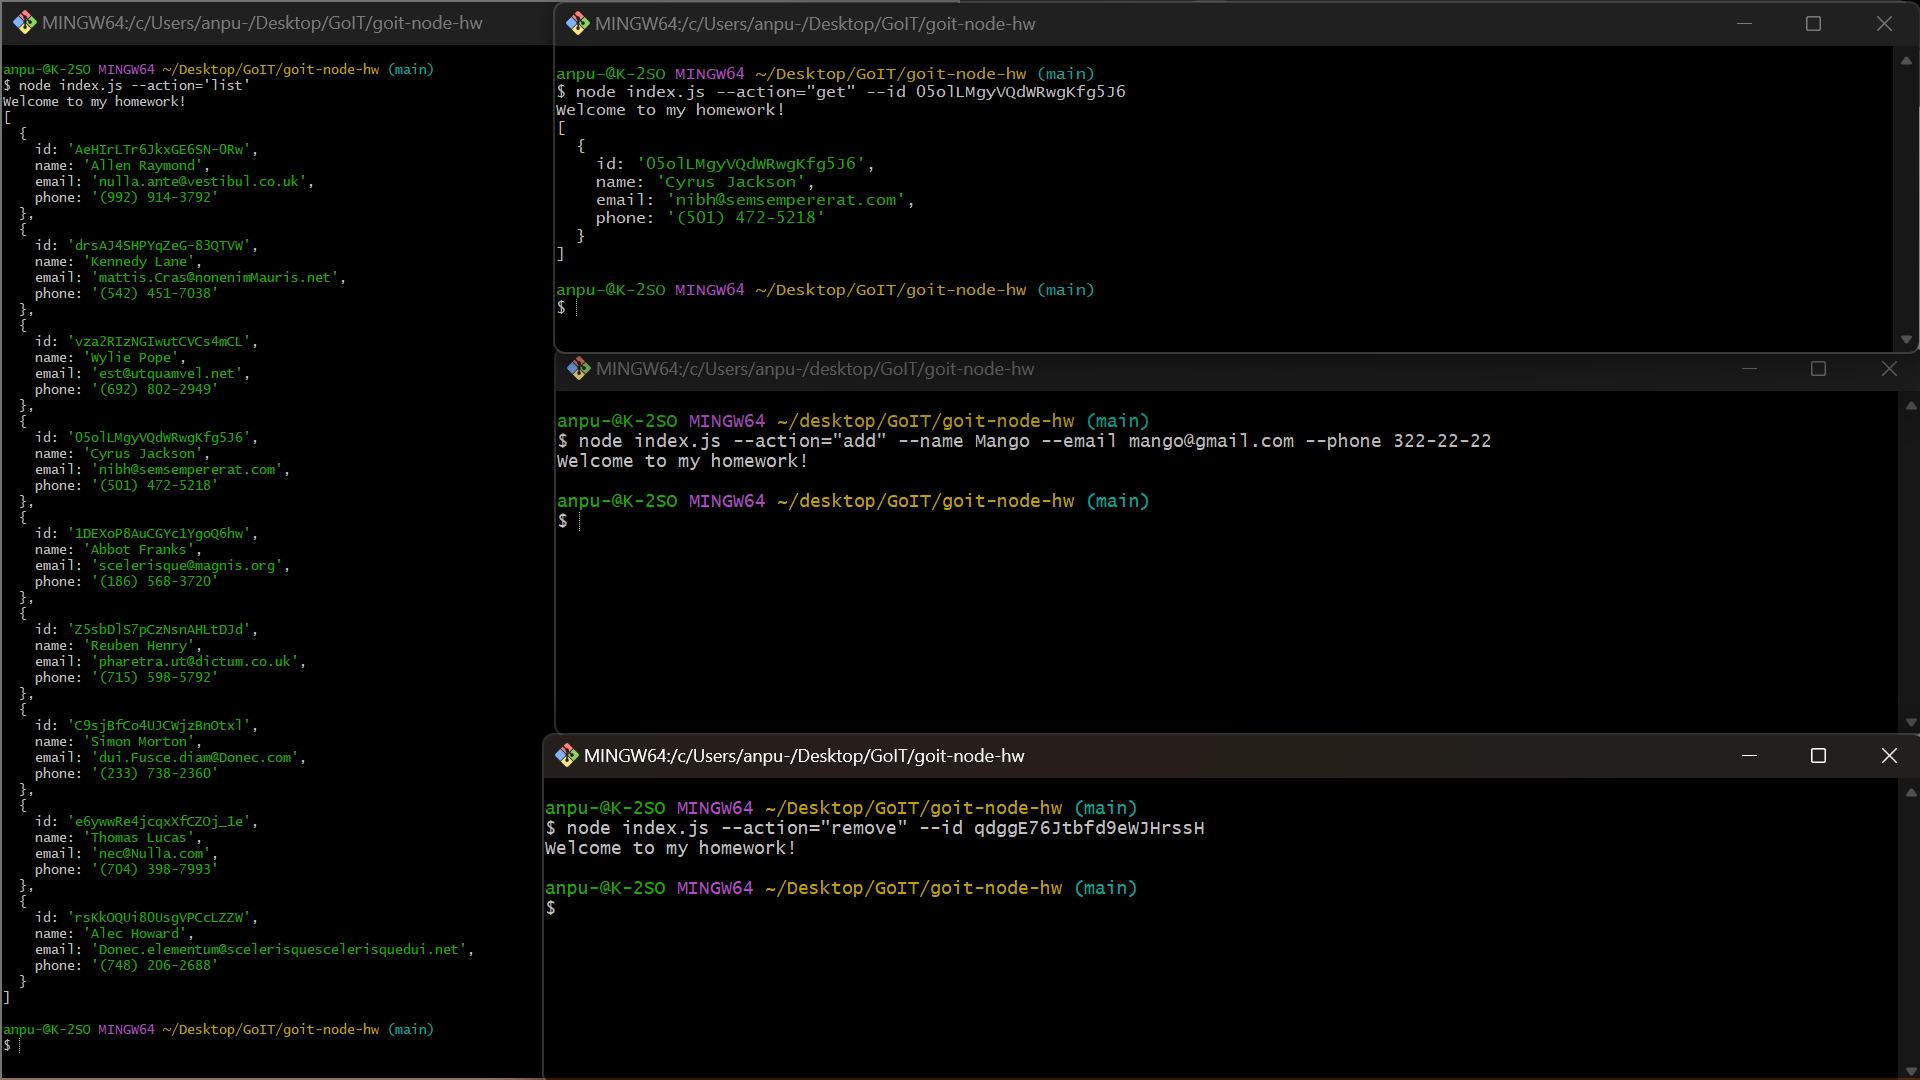
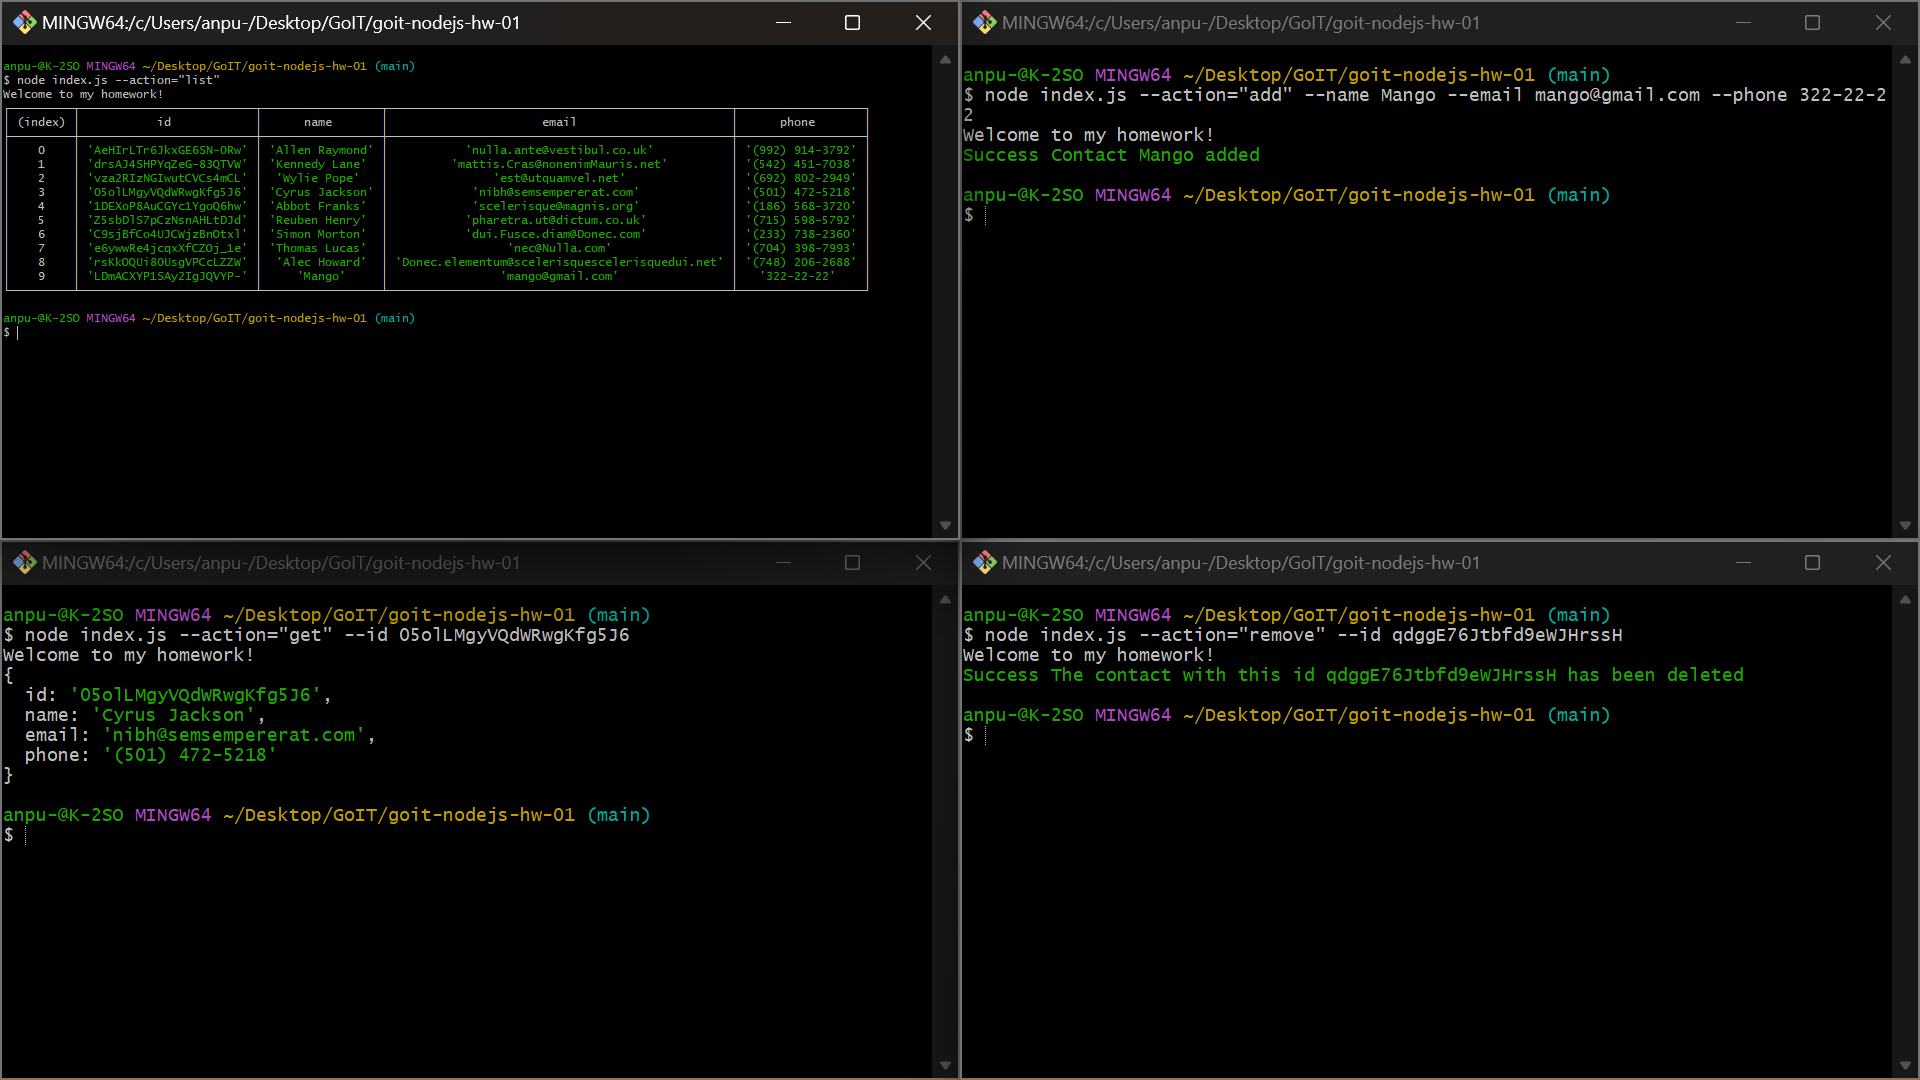
add async and fix screenshot

diff --git a/contacts-async.js b/contacts-async.js
@@ -1,0 +1,61 @@
+const fs = require('fs').promises;
+const path = require('path');
+const {nanoid} = require('nanoid');
+const chalk = require("chalk");
+
+const contactsPath = path.resolve('./db/contacts.json');
+
+async function listContacts() {
+  try {
+    return console.table(JSON.parse(await fs.readFile(contactsPath)));
+  } catch (err) {
+    console.log(chalk.red(`Error! ${err.message}`));
+  }
+}
+
+async function getContactById(contactId) {
+  try {
+    const searchedContact = JSON.parse(await fs.readFile(contactsPath)).find(contact => contact.id === contactId);
+    if (searchedContact) {
+      return console.log(searchedContact);
+    }
+    console.log(chalk.yellow(`Contact not find`));
+  } catch (err) {
+    console.log(chalk.red(`Error! ${err.message}`));
+  }
+}
+
+async function removeContact(contactId) {
+  try {
+    const contacts = JSON.parse(await fs.readFile(contactsPath))
+    const updatedContacts = contacts.filter(contact => contact.id !== contactId);
+    fs.writeFile(contactsPath, JSON.stringify(updatedContacts));
+    if (contacts.length === updatedContacts.length + 1) {
+      return console.log(chalk.green(`Success The contact with this id ${contactId} has been deleted`));
+    }
+    console.log(chalk.yellow(`Contact with this ID was not found`));
+  } catch (err) {
+    console.log(chalk.red(`Error! ${err.message}`));
+  }
+}
+
+async function addContact(name, email, phone) {
+  try {
+    const contacts = JSON.parse(await fs.readFile(contactsPath));
+    const updatedContacts = [...contacts, {id: nanoid(), name, email, phone}];
+    await fs.writeFile(contactsPath, JSON.stringify(updatedContacts));
+    if (contacts.length + 1 === updatedContacts.length) {
+      return console.log(chalk.green(`Success Contact ${name} added`));
+    }
+  } catch (error) {
+    console.log(chalk.red(`Error! ${err.message}`));
+  }
+}
+
+module.exports = {
+  listContacts: listContacts,
+  getContactById: getContactById,
+  removeContact: removeContact,
+  addContact: addContact,
+}
+

diff --git a/contacts.js b/contacts.js
@@ -1,40 +1,33 @@
 const fs = require('fs').promises;
 const path = require('path');
+const {nanoid} = require('nanoid')
 
 const contactsPath = path.resolve('./db/contacts.json');
 
 function listContacts() {
-
   fs.readFile(contactsPath)
     .then(data => console.table(JSON.parse(data)))
     .catch(err => console.log(err.message));
-
 }
 
 function getContactById(contactId) {
-
   fs.readFile(contactsPath)
   .then(data => console.log(JSON.parse(data).filter(item => item.id === contactId)))
   .catch(err => console.log(err.message));
-
 }
 
 function removeContact(contactId) {
-
   fs.readFile(contactsPath)
     .then(data => JSON.parse(data).filter(contact => contact.id !== contactId))
     .then(data => fs.writeFile(contactsPath, JSON.stringify(data)))
     .catch(err => console.log(err.message));
-
 }
 
 function addContact(name, email, phone) {
-
   fs.readFile(contactsPath)
-    .then(data => { const contacts = JSON.parse(data); contacts.push({name, email, phone}); return contacts})
+    .then(data => { const contacts = JSON.parse(data); contacts.push({id: nanoid(), name, email, phone}); return contacts})
     .then(data => fs.writeFile(contactsPath, JSON.stringify(data)))
     .catch(err => console.log(err.message));
-
 }
 
 module.exports = {

diff --git a/index.js b/index.js
@@ -1,4 +1,4 @@
-const {listContacts, getContactById, removeContact, addContact} =require('./contacts.js');
+const {listContacts, getContactById, removeContact, addContact} =require('./contacts-async.js');
 const { Command } = require("commander");
 
 // test fnc
@@ -51,4 +51,3 @@ function invokeAction({ action, id, name, email, phone }) {
 invokeAction(argv);
 
 console.log('Welcome to my homework!')
-
